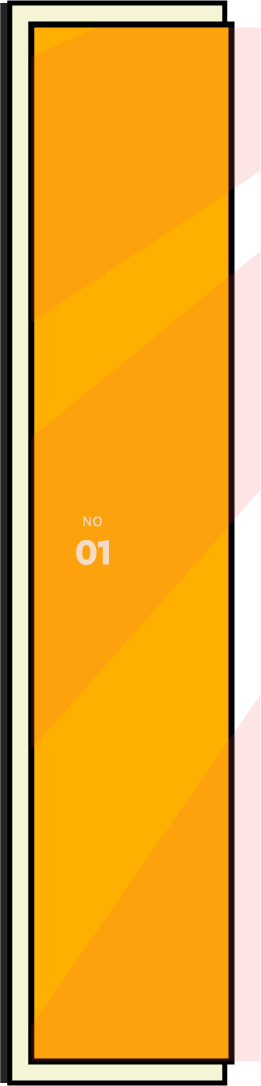
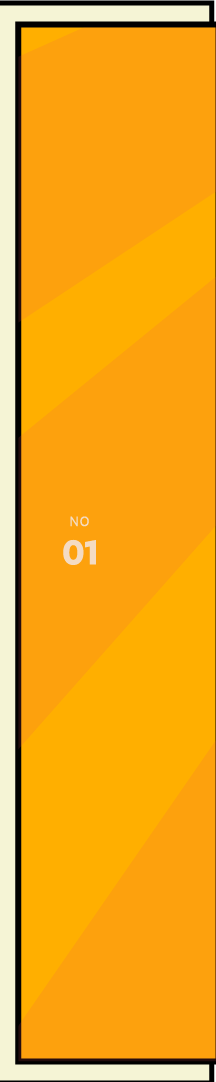
page 5 in progress

Changed region(s): [[0.0, 0.0, 1.0, 1.0], [0.2778, 0.4575, 0.4444, 0.549]]

diff --git a/src/pages/page5/Page5.jsx b/src/pages/page5/Page5.jsx
@@ -1,68 +1,119 @@
 import MuaraTakus from "./components/MuaraTakus";
-import { useEffect } from "react";
+import { useEffect, useState } from "react";
+
 function Page5() {
-  function spreadDivs() {
-    const stack = Array.from(document.getElementsByClassName('content-preview'));
-    console.log(stack.length);
-
-    for (let i = 0; i < stack.length; i++) {
-      const shift = 90;
-      stack[i].style.transform = `translateX(${shift*i}%)`;
-
-      console.log(shift * i);
-    }
-  }
-
+ 
   function convertScrolling() {
-    const container = document.querySelector('.sidescroll-page');
+    const container = document.querySelector('.master');
     container.addEventListener('wheel', (e) => {
       e.preventDefault();
-      container.scrollLeft += e.deltaY;
-      
+      container.scrollLeft += (e.deltaY + e.deltaX);
       console.log(e.deltaY);
-      console.log(document.body.scrollLeft)
-    })
-  }
-
-  function animateScroll() {
-    const element = document.getElementById("first-content");
-    var tl = gsap.timeline({
-      scrollTrigger: {
-        trigger: element,
-        start: "center center", // Trigger when the center of the element hits the center of the viewport
-        scrub: 0.5              // Smoothly animate the properties
-      }
     });
 
+  }
 
-    tl.to(element, { 
-      opacity: 1, duration: 2,
-      x:400
-     });
-  
+  function expandWhenClicked() {
+    const stack = Array.from(document.getElementsByClassName('content-preview'));
     
+    stack.forEach(item => {
+      item.addEventListener('click', function (e) {
+        alert('test')    
+        item.style.display = `scale(80%)`;
+      });
+    });
+  }
+  
+  
+
+  function animateScroll() {
+    const slider = document.querySelector('.sidescroll-page');
+    const element = document.getElementById("first-content");
+    // let tl = gsap.timeline({
+    //   defaults : {
+    //     ease: "none"
+    //   },
+    //   scrollTrigger: {
+    //     trigger: slider,
+    //     pin:true,
+    //     start: "center center", // Trigger when the center of the element hits the center of the viewport
+    //     scrub: 0.5,
+    //     end: ()=> "+=" + slider.offsetWidth
+    //                   // Smoothly animate the properties
+    //   }
+    // });
+
+    // tl.to(slider, {
+    //   xPercent: -66,
+    // });
+  }
+
+  const [backgrounds, setBgs] = useState([]);
+
+  function getBackgrounds() {
+    let bgs = [];
+    const baseDir = './images/tengok-ragam-real';
+
+    for (let i = 1; i < 8; i++) {
+      bgs.push(`${baseDir}/Page ${i}/ bg pg${i}.png`);
+    }
+
+    setBgs(bgs);
+  }
+
+  function smoothScroll() {
+    const lenis = new Lenis()
+
+    lenis.on('scroll', (e) => {
+      console.log(e)
+    })
+
+    function raf(time) {
+      lenis.raf(time)
+      requestAnimationFrame(raf)
+  }
+
+requestAnimationFrame(raf)
   }
   useEffect(()=> {
-    convertScrolling();
-    spreadDivs();
+    // convertScrolling();
+    // spreadDivs();
+
+    // smoothScroll();
     animateScroll();
-  }, [])
+    expandWhenClicked();
+    getBackgrounds();
+    console.log(backgrounds);
+
+  }, []);
+
+
   return (
-    <div className='sidescroll-page'>
-      <div className='page5-hero-text'>
-        <div className='empty-pg5' >
-          <img id='pg5-judul' src='./images/tengok-ragam-real/Page 1/judul pg1.png'></img>
+    <div className='master flex-row justify-start'>
+        <div className='sidescroll-page'>
+            <div className="sidescroll-hero flex-row">
+              <img className='bg-img-sidescroll' src='./images/tengok-ragam-real/Page 1/bg pg1.png'></img>
+              {/* <div style={{width: '100vw', height:'100vh'}></div> */}
+              <div className='page5-hero-text'>
+                <div className='empty-pg5'>
+                  <img id='pg5-judul' src='./images/tengok-ragam-real/Page 1/judul pg1.png'></img>
+                </div>
+              </div>
+              <div className="master-left"></div>
+              <div className='pg5-content-list'>
+                <img id='first-content' className='content-preview' src='./images/tengok-ragam-real/Page 1/Asset 1 pg1.png'></img>
+                <img className='content-preview' src='./images/tengok-ragam-real/Page 1/aset2 pg1.png'></img>
+                <img className='content-preview' src='./images/tengok-ragam-real/Page 1/aset3 pg1.png'></img>
+                <img className='content-preview' src='./images/tengok-ragam-real/Page 1/aset4 pg1.png'></img>
+                <img className='content-preview' src='./images/tengok-ragam-real/Page 1/aset5 pg 1.png'></img>
+                <img className='content-preview' src='./images/tengok-ragam-real/Page 1/aset6 pg1.png'></img>
+              </div> 
+            </div>
+           
         </div>
-      </div>
-      <div className='pg5-content-list'>
-        <img id='first-content' class='content-preview' src='./images/tengok-ragam-real/Page 1/Asset 1 pg1.png'></img>
-        <img class='content-preview' src='./images/tengok-ragam-real/Page 1/aset2 pg1.png'></img>
-        <img class='content-preview' src='./images/tengok-ragam-real/Page 1/aset3 pg1.png'></img>
-        <img class='content-preview' src='./images/tengok-ragam-real/Page 1/aset4 pg1.png'></img>
-        <img class='content-preview' src='./images/tengok-ragam-real/Page 1/aset5 pg 1.png'></img>
-        <img class='content-preview' src='./images/tengok-ragam-real/Page 1/aset6 pg1.png'></img>
-      </div>
-      <MuaraTakus></MuaraTakus>
+
+      {/* <MuaraTakus></MuaraTakus> */}
+
     </div>
   )
 }

diff --git a/src/App.css b/src/App.css
@@ -60,11 +60,25 @@
 }
 
 .bg-img {
-  width: 100vw;
+  height: 100%;
+  width: 100%;
   position: absolute;
   top:0px;
+  left:0px;
+  z-index: -1;
 
 }
+
+.bg-img-sidescroll {
+  height: 100%;
+  width: 100%;
+  position: absolute;
+  top:0px;
+  left:0px;
+  z-index: -1;
+}
+
+
 
 .detail-text-2 {
   width: 450px;
@@ -88,14 +102,63 @@
 
 .sidescroll-page {
   height: 100vh;
-  min-width: 150vw;
+  min-width: 160vw;
   overflow-y:hidden;
   display: flex;
   flex-direction: row;
-  background: url("../public/images/tengok-ragam-real/Page 1/bg pg1.png") center/cover fixed;
+
+  /* background: url("../public/images/tengok-ragam-real/Page 1/bg pg1.png") center/cover fixed; */
   /* background-size: cover;
-  background-position: center; */
+  background-position: center; */  
+}
+
+.content-img {
+  height: 200px;
+  width: 1000px;
+
+}
+.sidescroll-content {
+  position: relative;
+  min-width: 200vw;
+  height: 100vh;
+  display: flex;
+  justify-content: start;
+  align-items: center;
+
+}
+.sidescroll-content-page {
+  width: 100vw;
   
+}
+
+.sidescroll-content-desc {
+  max-width: 800px;
+  text-wrap: wrap;
+  font-size: 1.4rem;
+  font-weight: bold;
+  color: white;
+  margin-top: 3rem;
+}
+.sidescroll-content > .content-preview {
+  position: absolute;
+  top:0;
+  left:0;
+  height: 100%;
+}
+
+.sidescroll-hero {
+  position: relative;
+  width: 180vw;
+}
+
+.master {
+  overflow-y: hidden;
+}
+
+.master-left {
+  width: 160vw;
+  height:100vh;
+  /* background-color: red; */
 }
 
 .empty {
@@ -103,26 +166,23 @@
   width: 100vw;
   padding: 20px;
 }
+
 .empty-pg5 {
   height: 50vh;
-  width: 120vw;
   padding: 20px;
 }
 
 .pg5-content-list {
-  min-width: 30vw;
-  position:relative;
+  /* width: fit-content; */
+  min-width: 50vw;
 }
 
-.pg5-content-list > img {
-  position: absolute;
+.content-preview {
   height: 100%;
-  margin: 0;
-  padding: 0;
-  top:0;
-  left:0;
-  width: 170px;
+  width: 150px;
+  transition: 1s;
 }
+
 
 #pg5-judul {
   transform: scale(0.8);

diff --git a/src/pages/page5/components/MuaraTakus.jsx b/src/pages/page5/components/MuaraTakus.jsx
@@ -1,8 +1,19 @@
 
 function MuaraTakus() {
   return(
-    <div className='sidescroll-page'>
-      <h1>BEGONE THOT</h1>
+    <div className='sidescroll-content flex-row'>
+      {/* <img src='./images/tengok-ragam-real/Links/Candi Muara Takus.png'></img> */}
+      <img style={{position:'absolute', top:'2%', left:'-5%', zIndex:'0'}}src='./images/tengok-ragam-real/Page 2/aset bg pg2.png'></img>
+
+      <img className='bg-img-sidescroll' src='./images/tengok-ragam-real/Page 2/bg pg2.png'></img>
+
+      <div className='sidescroll-content-page flex-column justify-start align-center'>
+        <img className='content-img' src='./images/tengok-ragam-real/Page 2/aset 1 pg2.png'></img>
+        <p className='sidescroll-content-desc'>Destinasi sejarah budaya Indonesia kuno yang berada di pinggir sungai
+        Kampar, Desa Muara Takus, Riau. Melansir dari <i>kompas.com</i>, nama
+        MUARA TAKUS memiliki arti candi tua yang berada di muara sungai.</p>
+      </div>
+      
     </div>
   )
 }

diff --git a/src/App.js b/src/App.js
@@ -10,10 +10,12 @@ import Page4No6 from './pages/Page4/Page4.6';
 import Page4No7 from './pages/Page4/Page4.7';
 import Page4 from './pages/Page4/Page4';
 import Page5 from './pages/page5/Page5';
+import MuaraTakus from './pages/page5/components/MuaraTakus';
 function App() {
   return (
     <div className="App">
-      <Page5></Page5>
+      <MuaraTakus></MuaraTakus>
+
     </div>
   );
 }

diff --git a/public/index.html b/public/index.html
@@ -45,5 +45,7 @@
 
   <script  src="https://cdnjs.cloudflare.com/ajax/libs/gsap/3.12.4/gsap.min.js"></script>
   <script  src="https://cdnjs.cloudflare.com/ajax/libs/gsap/3.12.4/ScrollTrigger.min.js"></script>
+  <script src="https://cdn.jsdelivr.net/gh/studio-freight/lenis@1.0.29/bundled/lenis.min.js"></script> 
+
   
   </html>
